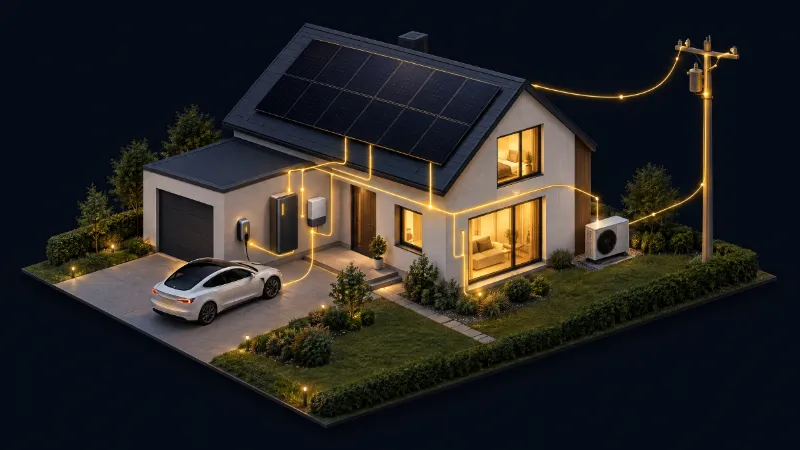
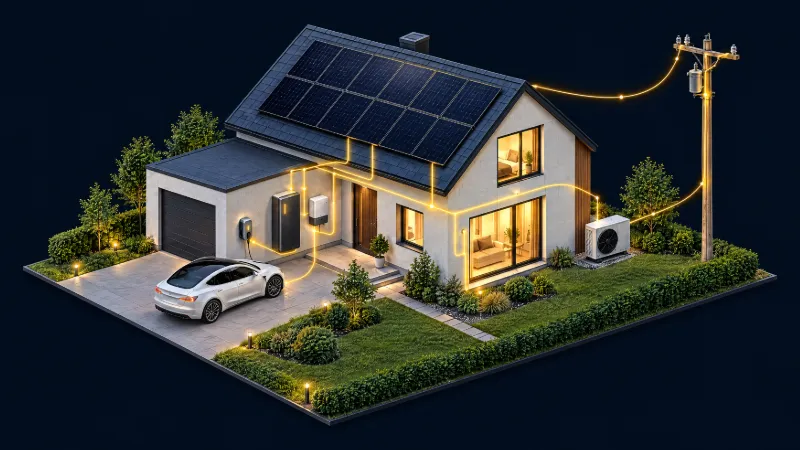
Ostrzejsza ilustracja domu z systemem energii (nowy render 4k)
Miekkie byly same detale renderu, nie skalowanie pliku: kratka pompy ciepla,
osprzet na slupie i krzaki byly rozmyte juz w oryginale 2688 px.

- nowy render gpt_image_2_5 w 4k/xhigh ze starym obrazem jako referencja
  kompozycji (dom, garaz, auto, magazyn, pompa i slup zostaly na miejscu,
  detal powstal od nowa)
- kadr wyliczany z bboxa sceny (grafiki-ai/eksport-render4k.mjs), zeby
  ilustracja zajmowala na stronie tyle samo miejsca co poprzednio
- punkty interaktywne: panele, magazyn i pompa przestawione pod nowy uklad
  (pompa ladowala pod urzadzeniem, na podmurowce)
- wariant 2400 px mocniej skompresowany (0.72) — nowy render ma duzo
  listowia i przy 0.8 plik rosl do 392 KB
- okladka PDF przekadrowana z tego samego renderu

diff --git a/src/data/content.ts b/src/data/content.ts
@@ -381,16 +381,16 @@ export const energySystem = {
       short: 'Panele PV',
       title: 'Panele fotowoltaiczne',
       text: 'W dzień produkują prąd. Bez magazynu nadwyżki oddajesz do sieci za grosze — a wieczorem kupujesz drogi prąd z powrotem.',
-      x: 47.2,
-      y: 21.1,
+      x: 48.5,
+      y: 21.8,
     },
     {
       id: 'magazyn',
       short: 'Magazyn energii',
       title: 'Magazyn energii z falownikiem',
       text: 'Serce systemu. Zatrzymuje energię z paneli na wieczór i noc, a przy awarii sieci przechodzi w tryb wyspowy — dom działa dalej.',
-      x: 35.5,
-      y: 49.4,
+      x: 35.4,
+      y: 48.3,
     },
     {
       id: 'hems',
@@ -413,8 +413,8 @@ export const energySystem = {
       short: 'Pompa ciepła',
       title: 'Pompa ciepła',
       text: 'Ogrzewanie i ciepła woda zasilane energią z paneli i magazynu — zamiast drogiego prądu w godzinach szczytu.',
-      x: 75.8,
-      y: 53.1,
+      x: 75.3,
+      y: 50.6,
     },
     {
       id: 'siec',
